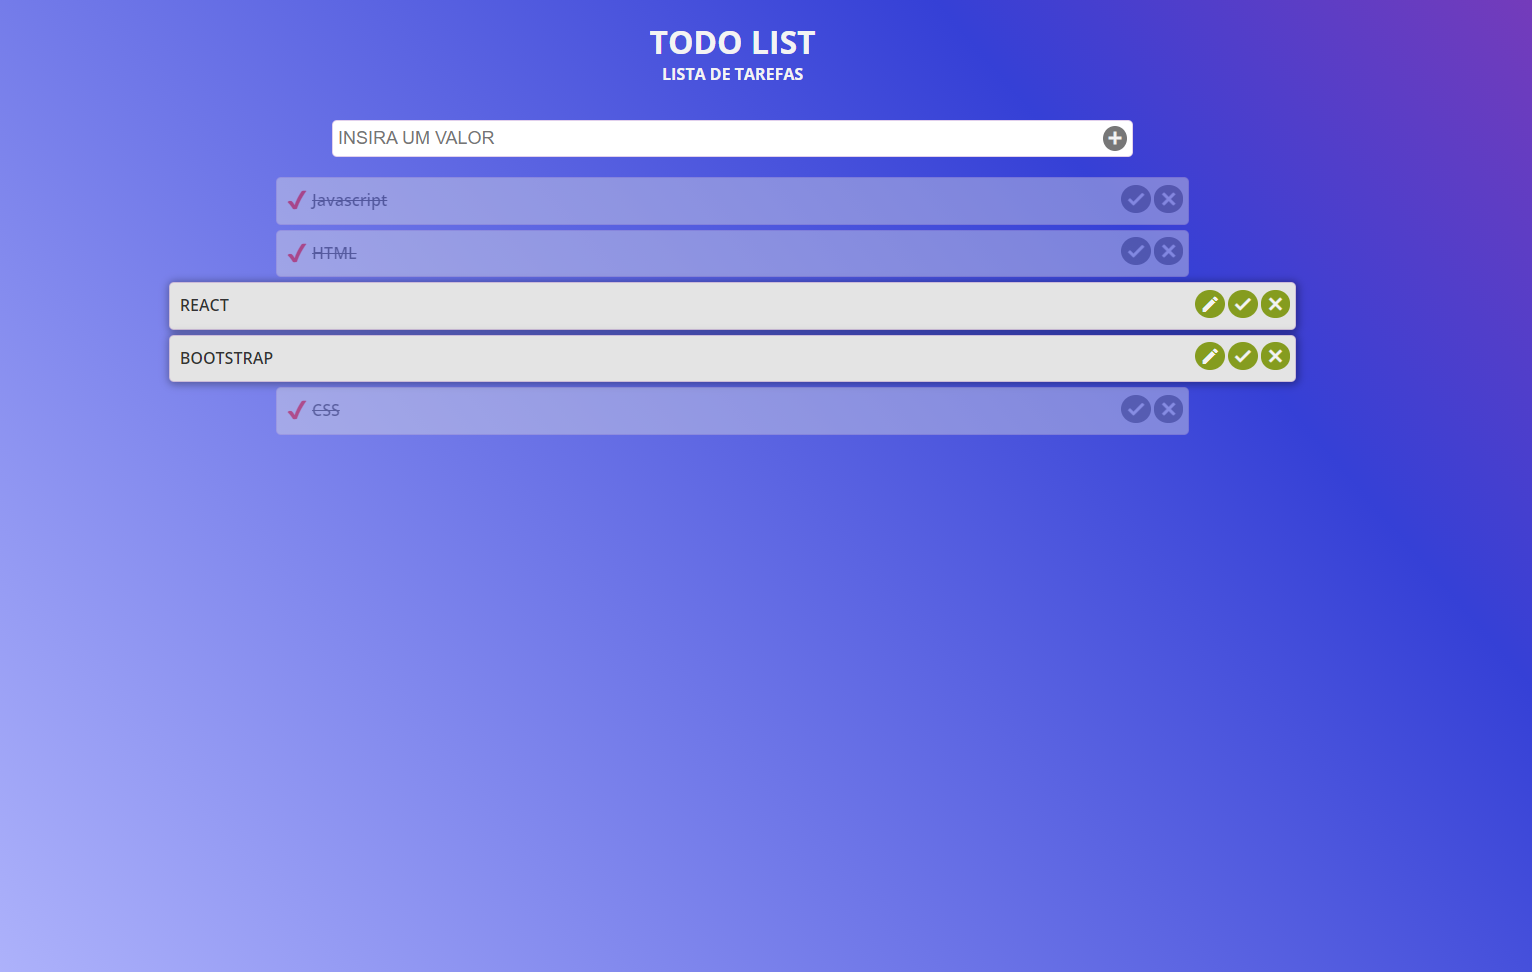
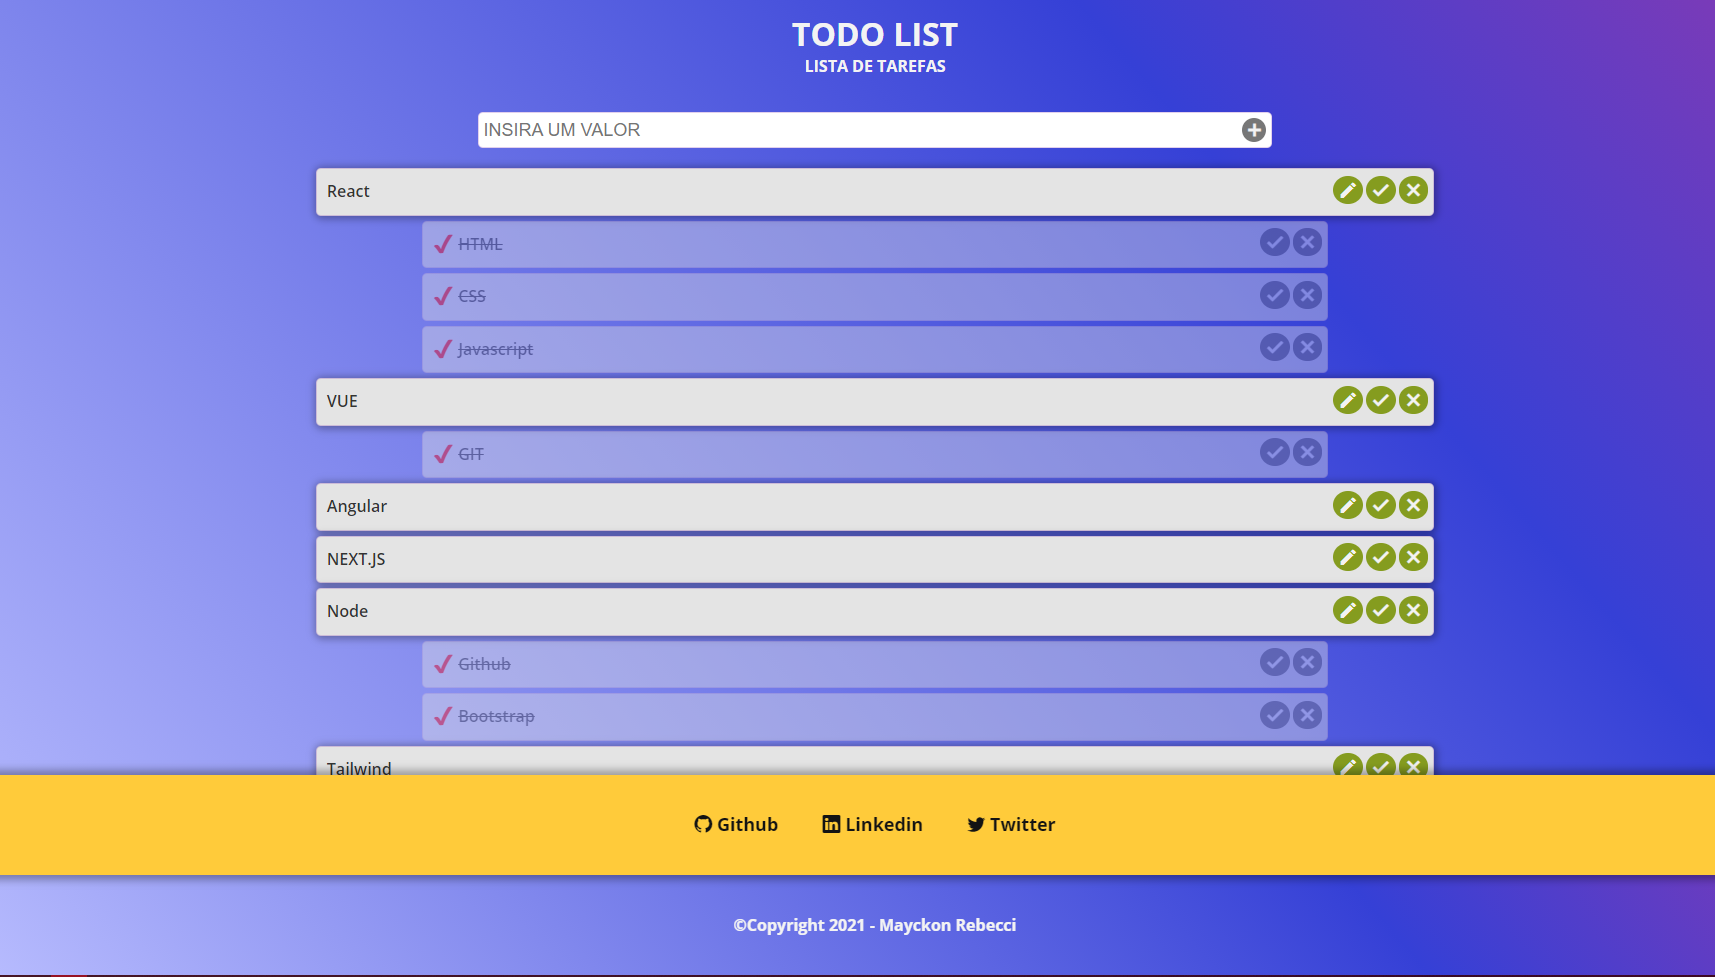
adicionado footer e alguns espaçamentos que estavam incorretos

diff --git a/style.css b/style.css
@@ -20,7 +20,6 @@ html {
 }
 
 body {
-    
 	background: linear-gradient(229deg, 
     #833ab4 0%, 
     #3540d6 27%, 
@@ -45,12 +44,14 @@ header {
 
 #container {
 	padding: 0.625rem;
-	height: 25rem;
 	width: 60%;
 	border-radius: 0.625rem;
 	color: var(--myBlack);
+    /* background-color: var(--myWhite); */
 	text-align: left;
+	margin-bottom: 13.125rem;
 }
+
 
 #item {
 	width: 70%;
@@ -72,7 +73,7 @@ header {
 
 #item .buttonPlus {
 	border-radius: 50%;
-	color: var(--myWhite);
+	color: var(--myWhite);  
 	justify-self: right;
 	align-self: center;
 	transition: 300ms;
@@ -83,7 +84,10 @@ header {
 	background-color: #3a45d79c !important;
 }
 #item .buttonPlus span {
-	font-size: 1.25rem;
+    display: grid;
+	justify-self: center;
+	align-self: center;
+	font-size: 1.25rem; 
 	font-weight: bolder;
 	padding: 0.125rem;
 }
@@ -102,8 +106,8 @@ header {
 }
 
 .createdItem:last-child {
-	/* margin-bottom: 1.875rem; */
-	margin-bottom: 15rem;
+	margin-bottom: 1.875rem;
+	/* margin-bottom: 15rem; */
 }
 
 .createdItem div:first-child {
@@ -186,13 +190,16 @@ section .links a:hover {
 }
 
 #footer {
-	position: absolute;
-	bottom: 0;
+    bottom: 0;
+    left: 0;
+    position: fixed;
 	width: 100%;
-	border-top: solid 0.0625rem #59287a;
 	line-height: 6.25rem;
 	text-align: center;
 	color: var(--myWhite);
 	font-weight: bolder;
-	background-color: var(--navBGColor);
+	background: linear-gradient(229deg, 
+    #833ab4 0%, 
+    #3540d6 27%, 
+    #bbbfff 100%);
 }

diff --git a/script.js b/script.js
@@ -8,7 +8,6 @@ const createErroP = document.createElement("p");
 
 // Coloca a cor do background do body no botão do ToDo Input
 const getBodyColor = getComputedStyle(document.body);
-const bodyBGColor = getBodyColor.backgroundColor;
 
 buttonPlus.style.backgroundColor = "#777";
 
@@ -21,7 +20,7 @@ function buttonPlusWork() {
         buttonPlus.style.backgroundColor = "#777";
 	} else {        
 		buttonPlus.style.cursor = "pointer";
-		buttonPlus.style.backgroundColor = bodyBGColor;        
+		buttonPlus.style.backgroundColor = "#5c67ff";        
 	}
 }
 

diff --git a/index.html b/index.html
@@ -47,7 +47,7 @@
         </article>
     </section>
 
-    <!-- <footer id="footer">
+    <footer id="footer">
         <section>
             <article class="links">
                 <a href="https://www.github.com/mayckonrebecci/" target="_blank"><i class="bi bi-github"></i> Github</a>
@@ -59,7 +59,7 @@
         </section>
 
         <p>&copy;Copyright 2021 - Mayckon Rebecci</p>
-    </footer> -->
+    </footer>
 
     <script src="script.js"></script>
 </body>
